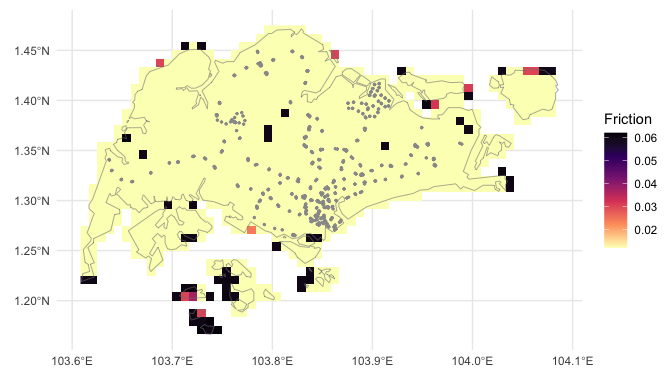
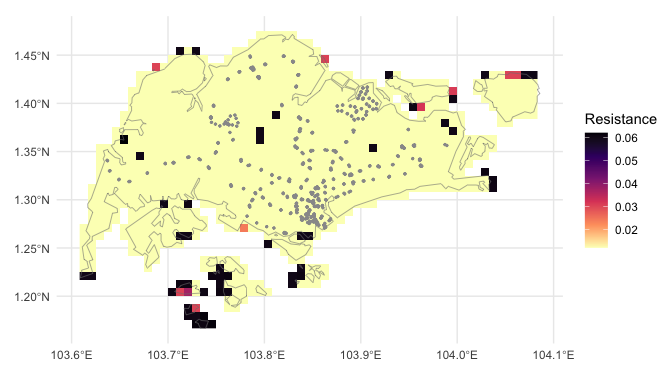
update render

diff --git a/paper/paper.html b/paper/paper.html
@@ -191,13 +191,13 @@ window.Quarto = {
 
 <section id="summary" class="level1">
 <h1>Summary</h1>
-<p>Understanding and mapping the time to travel among locations is useful for many activities from urban planning <span class="citation" data-cites="zahavi1974traveltime">(<a href="#ref-zahavi1974traveltime" role="doc-biblioref">Zahavi 1974</a>)</span> to public health <span class="citation" data-cites="hulland2019travel weiss2020global">(<a href="#ref-hulland2019travel" role="doc-biblioref">Hulland et al. 2019</a>; <a href="#ref-weiss2020global" role="doc-biblioref">Weiss et al. 2020</a>)</span> and myriad others <span class="citation" data-cites="nelson2019suite">(<a href="#ref-nelson2019suite" role="doc-biblioref">Nelson et al. 2019</a>)</span>. Here we present a software package — <code>traveltime</code> — written in and for the language R <span class="citation" data-cites="Rref">(<a href="#ref-Rref" role="doc-biblioref">R Core Team 2024</a>)</span>. <code>traveltime</code> enables a user to create a map of the motorised or walking travel time over an area of interest from a user-specified set of geographic coordinates. The result is a raster of the area of interest where the value in each cell is the lowest travel time in minutes to any of the specified locations. We envisage this software having diverse applications including: estimating sampling bias in species occurrence data <span class="citation" data-cites="dennis2000bias">Reddy and Dávalos (<a href="#ref-reddy2003geographical" role="doc-biblioref">2003</a>)</span>, mapping electric vehicle charger accessibility <span class="citation" data-cites="falchetta2021electric">(<a href="#ref-falchetta2021electric" role="doc-biblioref">Falchetta and Noussan 2021</a>)</span>, or understanding access to agricultural processing facilities <span class="citation" data-cites="zhao2023replanting">(<a href="#ref-zhao2023replanting" role="doc-biblioref">Zhao et al. 2023</a>)</span>.</p>
+<p>Understanding and mapping the time to travel among locations is useful for many activities from urban planning <span class="citation" data-cites="zahavi1974traveltime">(<a href="#ref-zahavi1974traveltime" role="doc-biblioref">Zahavi 1974</a>)</span> to public health <span class="citation" data-cites="hulland2019travel weiss2020global">(<a href="#ref-hulland2019travel" role="doc-biblioref">Hulland et al. 2019</a>; <a href="#ref-weiss2020global" role="doc-biblioref">Weiss et al. 2020</a>)</span> and myriad others <span class="citation" data-cites="nelson2019suite">(<a href="#ref-nelson2019suite" role="doc-biblioref">Nelson et al. 2019</a>)</span>. Here we present a software package — <code>traveltime</code> — written in and for the language R <span class="citation" data-cites="Rref">(<a href="#ref-Rref" role="doc-biblioref">R Core Team 2024</a>)</span>. <code>traveltime</code> enables a user to create a map of the motorised or walking travel time over an area of interest from a user-specified set of geographic coordinates. The result is a raster of the area of interest where the value in each cell is the lowest travel time in minutes to any of the specified locations. We envisage this software having diverse applications including: estimating sampling bias in species occurrence data <span class="citation" data-cites="dennis2000bias">Reddy and Dávalos (<a href="#ref-reddy2003geographical" role="doc-biblioref">2003</a>)</span>, mapping electric vehicle charger accessibility <span class="citation" data-cites="falchetta2021electric">(<a href="#ref-falchetta2021electric" role="doc-biblioref">Falchetta and Noussan 2021</a>)</span>, allocating public defibrillators [tierney2018novel], setting rehabilitation districts for stroke patients [padgham2019introduction], or understanding access to agricultural processing facilities <span class="citation" data-cites="zhao2023replanting">(<a href="#ref-zhao2023replanting" role="doc-biblioref">Zhao et al. 2023</a>)</span>.</p>
 <p>The work-flow requires two steps:</p>
 <ul>
 <li>preparing a ‘friction surface’ for the area of interest, and then</li>
 <li>calculating travel time over that surface for the points of interest.</li>
 </ul>
-<p><code>traveltime</code> provides a spatial interface using object classes from the <code>terra</code> package <span class="citation" data-cites="terra">(<a href="#ref-terra" role="doc-biblioref">Hijmans 2024</a>)</span>. It accepts points as <code>matrix</code>, <code>data.frame</code>, or <code>SpatVector</code> class objects; and the area of interest as an extent in the form of a <code>numeric</code>, <code>SpatExtent</code>, <code>SpatVector</code>, or <code>SpatRaster</code> object; and returns the result as a <code>SpatRaster</code> object. Internally, <code>traveltime</code> uses a number of existing R packages to perform specific operations. <code>gdistance</code> <span class="citation" data-cites="gdistance2017">(<a href="#ref-gdistance2017" role="doc-biblioref">van Etten 2017</a>)</span> is used to calculate the minimum least-cost-distance for each cell from the points of interest. The travel time is calculated as movement over any ‘friction surface’ the user supplies. To provide easy access to the existing friction surfaces generated by <span class="citation" data-cites="weiss2020global">Weiss et al. (<a href="#ref-weiss2020global" role="doc-biblioref">2020</a>)</span>. <code>traveltime</code> uses the package <code>malariaAtlas</code> to access friction surfaces for the desired extent, potentially saving the user downloading global surfaces and cropping them separately.</p>
+<p><code>traveltime</code> provides a spatial interface using object classes from the <code>terra</code> package <span class="citation" data-cites="terra">(<a href="#ref-terra" role="doc-biblioref">Hijmans 2024</a>)</span>. It accepts points as <code>matrix</code>, <code>data.frame</code>, or <code>SpatVector</code> class objects; and the area of interest as an extent in the form of a <code>numeric</code>, <code>SpatExtent</code>, <code>SpatVector</code>, or <code>SpatRaster</code> object; and returns the result as a <code>SpatRaster</code> object. The travel time is calculated as movement over a resistance ‘friction surface’ <span class="citation" data-cites="gdistance2017">(<a href="#ref-gdistance2017" role="doc-biblioref">van Etten 2017</a>)</span>. To provide easy access to the existing friction surfaces generated by <span class="citation" data-cites="weiss2020global">Weiss et al. (<a href="#ref-weiss2020global" role="doc-biblioref">2020</a>)</span>. <code>traveltime</code> uses the package <code>malariaAtlas</code> to access friction surfaces for the desired extent. Users can also supply other friction surfaces. Functionality from <code>gdistance</code> <span class="citation" data-cites="gdistance2017">(<a href="#ref-gdistance2017" role="doc-biblioref">van Etten 2017</a>)</span> is also used internally to calculate the minimum least-cost-distance for each cell from the points of interest.</p>
 <p><code>traveltime</code> is available from <a href="https://idem-lab.r-universe.dev/traveltime">R-Universe</a> and <a href="https://github.com/idem-lab/traveltime">GitHub</a>, and has reference documents at <a href="https://idem-lab.github.io/traveltime/" class="uri">https://idem-lab.github.io/traveltime/</a>. Although this article is intended to be the key reference for the <code>traveltime</code> package, we suggest citations of the package should be accompanied by citing the underlying work <span class="citation" data-cites="weiss2018global weiss2020global">(<a href="#ref-weiss2018global" role="doc-biblioref">Weiss et al. 2018</a>, <a href="#ref-weiss2020global" role="doc-biblioref">2020</a>)</span> as well.</p>
 </section>
 <section id="statement-of-need" class="level1">
@@ -212,7 +212,7 @@ window.Quarto = {
 <p>In this example we wish to calculate the walking travel time from the nearest mass transit station across the island nation of Singapore — specifically Mass Rapid Transit (MRT) and Light Rail Transit (LRT) stations — and create a map of this.</p>
 <section id="prepare-the-data-and-download-friction-surface" class="level2">
 <h2 class="anchored" data-anchor-id="prepare-the-data-and-download-friction-surface">Prepare the data and download friction surface</h2>
-<p>For this excercise, we need two items of data:</p>
+<p>For this exercise, we need two items of data:</p>
 <ul>
 <li>our area of interest — in this case a map of Singapore, and</li>
 <li>our points to calculate travel time from — here the locations of Singapore’s MRT and LRT stations.</li>
@@ -279,7 +279,7 @@ min value   :       0.01200000
 max value   :       0.06192715 </code></pre>
 </div>
 </div>
-<p>Below we plot the friction surface raster <code>friction_singapore</code>, with the vector boundary <code>singapore_shapefile</code> as a grey line, and <code>stations</code> as grey points (Figure <span class="math inline">\(\ref{fig-data}\)</span>). Higher values of friction indicate more time travelling across a given cell.</p>
+<p>Below we plot the friction surface raster <code>friction_singapore</code>, with the vector boundary <code>singapore_shapefile</code> as a grey line, and <code>stations</code> as grey points (Figure <span class="math inline">\(\ref{fig-data}\)</span>). <code>traveltime</code> takes resistance values of friction <span class="citation" data-cites="gdistance2017">(<a href="#ref-gdistance2017" role="doc-biblioref">van Etten 2017</a>)</span>, so higher values of friction indicate more time travelling across a given cell. In this case walking friction is fairly uniform across the islands barring a few small inaccesible locations. More heterogeneity would be expected in less developed areas with fewer transport corridors.</p>
 <div class="cell">
 <div class="cell-output-display">
 <div id="fig-data" class="quarto-float quarto-figure quarto-figure-center anchored">
@@ -337,8 +337,8 @@ Figure&nbsp;2: Map of walking travel time in Singapore, in minutes from nearest 
 <section id="opportunities-for-future-development" class="level1">
 <h1>Opportunities for future development</h1>
 <p>The <code>traveltime</code> package is immediately suitable to a range of applications where travel to custom locations is of interest. Nonetheless, we see opportunities to build the package utility into the future through two mechanisms: (1) capability to better distribute a wider range friction surfaces, and (2) additional methods to handle large spatial extents.</p>
-<p>Firstly, <code>traveltime</code> currently has access to walking and motorised friction surfaces for 2020, both at 30 arc-second resolution<a href="#fn2" class="footnote-ref" id="fnref2" role="doc-noteref"><sup>2</sup></a>. As landscapes are not dynamic, it may be useful to incorporate updated versions of these friction surfaces if and when they are available, though this is likely to occur first through <code>malariaAtlas</code>. Furthermore, although the resolution of these data is likely to be suitable for larger landscape foci, higher resolution data may be helpful for more locally focussed analyses. For instance, although the example here was chosen for it’s simplicity and low computational demands, a ~1 km<sup>2</sup> cell size is a relatively large area to walk across, and thus actual waking times are likely to vary significantly within each cell. We note though that the capability to calculate travel time over any friction surface exists presently, it is only the availability of additional surfaces that is presently restrictive.</p>
-<p>At the other end of the scale, the calculations can require relatively large amounts of onboard memory for analyses over large landscapes (e.g.&nbsp;one analyses over Africa required ~ 72 GB RAM). Developing methods to handle large landscapes either with less memory or via cloud resources would be helpful to make such analyses accessible to those without access to larger computing resources.</p>
+<p>Firstly, <code>traveltime</code> currently has access to walking and motorised friction surfaces for 2020, both at 30 arc-second resolution<a href="#fn2" class="footnote-ref" id="fnref2" role="doc-noteref"><sup>2</sup></a>. Although the user can supply their own friction surface, we expect most applications will use these surfaces. As landscapes are not dynamic, it may be useful to incorporate updated versions of these friction surfaces if and when they are available, though this is likely to occur first through <code>malariaAtlas</code>. Furthermore, although the resolution of these data is likely to be suitable for larger landscape foci, higher resolution data may be helpful for more locally focussed analyses. For instance, although the example here was chosen for it’s simplicity and low computational demands, a ~1 km<sup>2</sup> cell size is a relatively large area to walk across, and thus actual waking times may vary significantly within each cell.</p>
+<p>At the other end of the scale, the calculations can require relatively large amounts of onboard memory for analyses over large landscapes (e.g.&nbsp;analyses over Africa required ~ 72 GB RAM). Developing methods to handle large landscapes either with less memory or via cloud resources would be helpful to make such analyses accessible to those without access to larger computing resources.</p>
 </section>
 <section id="acknowledgements" class="level1">
 <h1>Acknowledgements</h1>

diff --git a/paper/paper.html.md b/paper/paper.html.md
@@ -46,14 +46,14 @@ bibliography: paper.bib
 
 # Summary
 
-Understanding and mapping the time to travel among locations is useful for many activities from urban planning [@zahavi1974traveltime] to public health [@hulland2019travel; @weiss2020global] and myriad others [@nelson2019suite]. Here we present a software package --- `traveltime` --- written in and for the language R [@Rref]. `traveltime` enables a user to create a map of the motorised or walking travel time over an area of interest from a user-specified set of geographic coordinates. The result is a raster of the area of interest where the value in each cell is the lowest travel time in minutes to any of the specified locations. We envisage this software having diverse applications including: estimating sampling bias in species occurrence data [@dennis2000bias, @reddy2003geographical], mapping electric vehicle charger accessibility [@falchetta2021electric], or understanding access to agricultural processing facilities [@zhao2023replanting].
+Understanding and mapping the time to travel among locations is useful for many activities from urban planning [@zahavi1974traveltime] to public health [@hulland2019travel; @weiss2020global] and myriad others [@nelson2019suite]. Here we present a software package --- `traveltime` --- written in and for the language R [@Rref]. `traveltime` enables a user to create a map of the motorised or walking travel time over an area of interest from a user-specified set of geographic coordinates. The result is a raster of the area of interest where the value in each cell is the lowest travel time in minutes to any of the specified locations. We envisage this software having diverse applications including: estimating sampling bias in species occurrence data [@dennis2000bias, @reddy2003geographical], mapping electric vehicle charger accessibility [@falchetta2021electric], allocating public defibrillators [tierney2018novel], setting rehabilitation districts for stroke patients [padgham2019introduction], or understanding access to agricultural processing facilities [@zhao2023replanting].
 
 The work-flow requires two steps:
 
 -   preparing a 'friction surface' for the area of interest, and then
 -   calculating travel time over that surface for the points of interest.
 
-`traveltime` provides a spatial interface using object classes from the `terra` package [@terra]. It accepts points as `matrix`, `data.frame`, or `SpatVector` class objects; and the area of interest as an extent in the form of a `numeric`, `SpatExtent`, `SpatVector`, or `SpatRaster` object; and returns the result as a `SpatRaster` object. Internally, `traveltime` uses a number of existing R packages to perform specific operations. `gdistance` [@gdistance2017] is used to calculate the minimum least-cost-distance for each cell from the points of interest. The travel time is calculated as movement over any 'friction surface' the user supplies. To provide easy access to the existing friction surfaces generated by @weiss2020global. `traveltime` uses the package `malariaAtlas` to access friction surfaces for the desired extent, potentially saving the user downloading global surfaces and cropping them separately.
+`traveltime` provides a spatial interface using object classes from the `terra` package [@terra]. It accepts points as `matrix`, `data.frame`, or `SpatVector` class objects; and the area of interest as an extent in the form of a `numeric`, `SpatExtent`, `SpatVector`, or `SpatRaster` object; and returns the result as a `SpatRaster` object. The travel time is calculated as movement over a resistance 'friction surface' [@gdistance2017]. To provide easy access to the existing friction surfaces generated by @weiss2020global. `traveltime` uses the package `malariaAtlas` to access friction surfaces for the desired extent. Users can also supply other friction surfaces. Functionality from `gdistance` [@gdistance2017] is also used internally to calculate the minimum least-cost-distance for each cell from the points of interest. 
 
 `traveltime` is available from [R-Universe](https://idem-lab.r-universe.dev/traveltime) and [GitHub](https://github.com/idem-lab/traveltime), and has reference documents at <https://idem-lab.github.io/traveltime/>. Although this article is intended to be the key reference for the `traveltime` package, we suggest citations of the package should be accompanied by citing the underlying work [@weiss2018global; @weiss2020global] as well.
 
@@ -75,7 +75,7 @@ In this example we wish to calculate the walking travel time from the nearest ma
 
 ## Prepare the data and download friction surface
 
-For this excercise, we need two items of data:
+For this exercise, we need two items of data:
 
 -   our area of interest --- in this case a map of Singapore, and
 -   our points to calculate travel time from --- here the locations of Singapore's MRT and LRT stations.
@@ -197,7 +197,7 @@ max value   :       0.06192715
 
 
 
-Below we plot the friction surface raster `friction_singapore`, with the vector boundary `singapore_shapefile` as a grey line, and `stations` as grey points (Figure \ref{fig-data}). Higher values of friction indicate more time travelling across a given cell.
+Below we plot the friction surface raster `friction_singapore`, with the vector boundary `singapore_shapefile` as a grey line, and `stations` as grey points (Figure \ref{fig-data}). `traveltime` takes resistance values of friction [@gdistance2017], so higher values of friction indicate more time travelling across a given cell. In this case walking friction is fairly uniform across the islands barring a few small inaccesible locations. More heterogeneity would be expected in less developed areas with fewer transport corridors.
 
 
 
@@ -262,11 +262,11 @@ We present the resulting calculated travel times in Figure \ref{fig-result}. Not
 
 The `traveltime` package is immediately suitable to a range of applications where travel to custom locations is of interest. Nonetheless, we see opportunities to build the package utility into the future through two mechanisms: (1) capability to better distribute a wider range friction surfaces, and (2) additional methods to handle large spatial extents.
 
-Firstly, `traveltime` currently has access to walking and motorised friction surfaces for 2020, both at 30 arc-second resolution[^2]. As landscapes are not dynamic, it may be useful to incorporate updated versions of these friction surfaces if and when they are available, though this is likely to occur first through `malariaAtlas`. Furthermore, although the resolution of these data is likely to be suitable for larger landscape foci, higher resolution data may be helpful for more locally focussed analyses. For instance, although the example here was chosen for it's simplicity and low computational demands, a ~1 km^2^ cell size is a relatively large area to walk across, and thus actual waking times are likely to vary significantly within each cell. We note though that the capability to calculate travel time over any friction surface exists presently, it is only the availability of additional surfaces that is presently restrictive.
+Firstly, `traveltime` currently has access to walking and motorised friction surfaces for 2020, both at 30 arc-second resolution[^2]. Although the user can supply their own friction surface, we expect most applications will use these surfaces. As landscapes are not dynamic, it may be useful to incorporate updated versions of these friction surfaces if and when they are available, though this is likely to occur first through `malariaAtlas`. Furthermore, although the resolution of these data is likely to be suitable for larger landscape foci, higher resolution data may be helpful for more locally focussed analyses. For instance, although the example here was chosen for it's simplicity and low computational demands, a ~1 km^2^ cell size is a relatively large area to walk across, and thus actual waking times may vary significantly within each cell.
 
 [^2]: Approximately 0.008333 decimal degrees, or just below 1 km^2^ at the equator
 
-At the other end of the scale, the calculations can require relatively large amounts of onboard memory for analyses over large landscapes (e.g. one analyses over Africa required \~ 72 GB RAM). Developing methods to handle large landscapes either with less memory or via cloud resources would be helpful to make such analyses accessible to those without access to larger computing resources.
+At the other end of the scale, the calculations can require relatively large amounts of onboard memory for analyses over large landscapes (e.g. analyses over Africa required \~ 72 GB RAM). Developing methods to handle large landscapes either with less memory or via cloud resources would be helpful to make such analyses accessible to those without access to larger computing resources.
 
 # Acknowledgements
 
